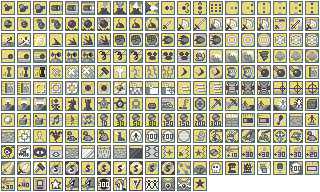
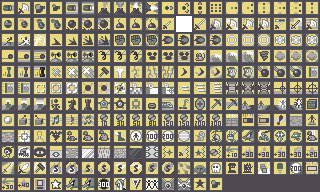
added sample attacks and chip indicators

Changed region(s): [[0.0, 0.0, 1.0, 1.0]]

diff --git a/PokemonBattleNetwork.py b/PokemonBattleNetwork.py
@@ -5,12 +5,14 @@ from random import randint
 pygame.init()
 
 size = width, height = 480, 200
+tileWidth = 80
+tileHeight = 40
 backgroundColor = 0, 0, 0
 screen = pygame.display.set_mode(size)
 
 pokemonEntities = []
 
-boardTeam = [[1,1,1],[1,0,1],[1,0,1],[2,0,2],[2,0,2],[2,2,2]] #each row of board 0 = neutral, 1 = red, 2 = blue
+boardTeam = [[1,1,1],[1,1,1],[1,0,1],[2,0,2],[2,2,2],[2,2,2]] #each row of board 0 = neutral, 1 = red, 2 = blue
 tileTypes = [[0,0,0],[0,0,0],[0,0,0],[0,0,0],[0,0,0],[0,0,0]]
 
 pokemonSpriteSheet = spritesheet("diamond-pearl.png")
@@ -38,11 +40,11 @@ class pokemon():
 	def calculateStats(self):
 		self.totalStats = [0,0,0,0,0,0]
 		self.totalStats[0] = ((2*self.baseStats[0]+self.IVs[0]+self.EVs[0]//4)*self.level)//100+self.level+10
-		for i in range(1,5):
+		for i in range(1,6):
 			self.totalStats[i] = ((2*self.baseStats[i]+self.IVs[i]+self.EVs[i]//4)*self.level)//100+5#*natureBonus
 		
 	def getSprite(self):
-		self.image = pokemonSpriteSheet.getSpriteById(self.Id-1, 28, 80, 80)
+		self.image = pokemonSpriteSheet.getSpriteById(self.Id-1, 28, tileWidth, tileWidth)
 		self.rect = self.image.get_rect()
 		
 
@@ -90,7 +92,7 @@ class PokemonEntity():
 			
 	def hit(self,damage):
 		self.pokemon.totalStats[0] -= damage
-			
+		
 
 class Chip():
 	def __init__(self, Id):
@@ -100,6 +102,33 @@ class Chip():
 	def getIconSprite(self):
 		self.icon = chipSpriteSheet.getSpriteById(self.Id,20,16,16)
 
+class AttackEntity():
+	"""handles animation and timing of attacks, should be created upon using an attack
+	Data responsible for:
+	Team
+	animation
+	damage
+	
+	"""
+	def __init__(self, pos):
+		self.pos = pos
+		self.team = 1
+		self.spritesheet = spritesheet("chip icons.png")
+		self.imageStrip = self.spritesheet.load_strip([0,0,16,16],20)
+		print(self.imageStrip)
+		
+	def tick(self):
+		"""called each frame, should update animation and """
+def drawAttackQueue():
+	global attackQueue
+	offset = len(attackQueue)*2
+	for attack in attackQueue:
+		#draw attack relative to player
+		chipSprite = chipSpriteSheet.getSpriteById(attack,20,16,16,colorkey=0)
+		chipRect = chipSprite.get_rect()
+		chipRect.center = player.pos[0]*tileWidth+tileWidth/2-offset, player.pos[1]*tileHeight+tileHeight/2-offset
+		screen.blit(chipSprite,chipRect)
+		offset-=2
 
 def drawBoard():
 	for i in range(6):
@@ -107,8 +136,8 @@ def drawBoard():
 			#check type
 			tile = pygame.image.load("tile path.png")
 			tileRect = tile.get_rect()
-			tileRect.top = j*40+80
-			tileRect.left = i*80
+			tileRect.top = j*tileHeight+tileWidth
+			tileRect.left = i*tileWidth
 			
 			if boardTeam[i][j] == 0:
 				tileFrameImage = "tile border gray.png"
@@ -120,8 +149,8 @@ def drawBoard():
 			#print("drawing tile",tileFrameImage,"at",i,j)
 			tileFrame = pygame.image.load(tileFrameImage)
 			tileFrameRect = tileFrame.get_rect()
-			tileFrameRect.left = i*80
-			tileFrameRect.top = j*40+80
+			tileFrameRect.left = i*tileWidth
+			tileFrameRect.top = j*tileHeight+tileWidth
 			
 			screen.blit(tile, tileRect)
 			screen.blit(tileFrame, tileFrameRect)
@@ -132,32 +161,43 @@ def drawGame():
 	#sort entities from back to front for drawing
 	pokemonEntities.sort(key=lambda x: x.pos[1])
 	for entity in pokemonEntities:	#draw all entities
-		textsurface = monospaceFont.render(str(entity.pokemon.totalStats[0]), False, (0,0,0))
-		entityX = entity.pos[0]*80+40
-		entityY = entity.pos[1]*40+80
+		entityX = entity.pos[0]*tileWidth+tileHeight
+		entityY = entity.pos[1]*tileHeight+tileWidth
 		entity.pokemon.rect.center = entityX, entityY
 		if entity.team==1:
 			entityImage = pygame.transform.flip(entity.pokemon.image,True,False)
 		else:
 			entityImage = entity.pokemon.image
 		screen.blit(entityImage, entity.pokemon.rect)
-		screen.blit(textsurface,(entityX-10, entityY+25))
 		
-	timerText = monospaceFont.render(str(frameCount), False, (255,255,255))
+	for entity in pokemonEntities: 
+		entityHpText = monospaceFont.render(str(entity.pokemon.totalStats[0]), False, (0,0,0))
+		entityX = entity.pos[0]*tileWidth+tileHeight
+		entityY = entity.pos[1]*tileHeight+tileWidth
+		screen.blit(entityHpText,(entityX-10, entityY+25))
+		
+	drawAttackQueue()
+	
+	if frameCount < 100:
+		timerText = monospaceFont.render(str(frameCount), False, (255,255,255))
+	else:
+		timerText = monospaceFont.render("Press R to reset attacks!", False, (255,255,255))
+
 	screen.blit(timerText,(0,0))
 	pygame.display.flip()
 	
 
 def hitTile(pos, damage, damageType, team):
+	print("hitTile",pos)
 	for entity in pokemonEntities:
 		if entity.pos==pos and entity.team!=team:
-			#print("hit",pos,"for",damage,"damage")
+			print("hit",pos,"for",damage,"damage")
 			entity.hit(damage)
 			return True
 
 def shootRow(pos, damage, damageType, team):
-	#pos is tile enemy
-	for i in range(pos[0],5):
+	#pos is tile of player
+	for i in range(pos[0],6):
 		if hitTile((i,pos[1]),damage, damageType, team):
 			return True
 
@@ -174,11 +214,13 @@ def TitleScreen():
 	pygame.display.flip()
 	for event in pygame.event.get():
 		if event.type == pygame.KEYDOWN:
-			gameTickAlias = BattleTick
+			gameTickAlias = CustomTick
+
 				
 def BattleTick():
 	global gameTickAlias
 	global frameCount
+	global attackQueue
 	for event in pygame.event.get():
 		if event.type == pygame.QUIT: 
 			sys.exit()
@@ -191,7 +233,9 @@ def BattleTick():
 		if event.type == pygame.KEYDOWN and event.key == K_DOWN:
 			player.moveDirection("down")
 		if event.type == pygame.KEYDOWN and event.key == K_SPACE:
-			shootRow((player.pos[0]+1,player.pos[1]),10,"lol there's no type yet",1)
+			if attackQueue:
+				attackAlias = attackAliases[attackQueue.pop()]
+				attackAlias((player.pos[0],player.pos[1]),10,"lol there's no type yet",1)
 		if event.type == pygame.KEYDOWN and event.key == K_r:
 			if frameCount >= 100:
 				print("enter custom")
@@ -212,6 +256,7 @@ def BattleTick():
 		gameTickAlias = TitleScreen
 			
 	drawGame()
+	
 	if frameCount >= 100:
 		frameCount = 100
 	else:
@@ -219,21 +264,29 @@ def BattleTick():
 		
 def CustomTick():
 	global gameTickAlias
+	global attackQueue
 	"""open custom menu, handle cursor and chip selection, draw chips"""
+	#load selected attacks into attackQueue
+	attackQueue = [1,0]
+	
+	#leave custom immediately
+	gameTickAlias = BattleTick
 	for event in pygame.event.get():
 		if event.type == pygame.QUIT: 
 			sys.exit()
-		if event.type == pygame.KEYDOWN and event.key == K_r:
-			print("left custom")
+		if  event.type == pygame.KEYDOWN and event.key == K_r:
 			gameTickAlias = BattleTick
-
 		
-			
+
+attackAliases = [shootRow, sliceWide]
 player = PokemonEntity((0,1),1)
-enemies = [PokemonEntity((4,1),2),PokemonEntity((4,1),2),PokemonEntity((4,1),2),PokemonEntity((4,1),2),PokemonEntity((4,1),2)]
+enemies = [PokemonEntity((5,0),2),PokemonEntity((5,1),2),PokemonEntity((5,2),2)]
 pokemonEntities.append(player)
 pokemonEntities += enemies
 frameCount = 0
 gameTickAlias = TitleScreen
+attackQueue = []
+attackEntity = AttackEntity((0,0))
+
 while True:
 	gameTickAlias()

diff --git a/spritesheet.py b/spritesheet.py
@@ -36,9 +36,9 @@ class spritesheet(object):
 				for x in range(image_count)]
 		return self.images_at(tups, colorkey)
         
-	def getSpriteById(self, Id, cols, sizeX, sizeY):
+	def getSpriteById(self, Id, cols, sizeX, sizeY,colorkey=-1):
 		spriteCol = (Id)%cols
 		spriteRow = (Id)//cols
 		spriteX = spriteCol*sizeX
 		spriteY = spriteRow*sizeY
-		return self.image_at((spriteX,spriteY,sizeX,sizeY), colorkey=-1)
+		return self.image_at((spriteX,spriteY,sizeX,sizeY), colorkey=colorkey)
